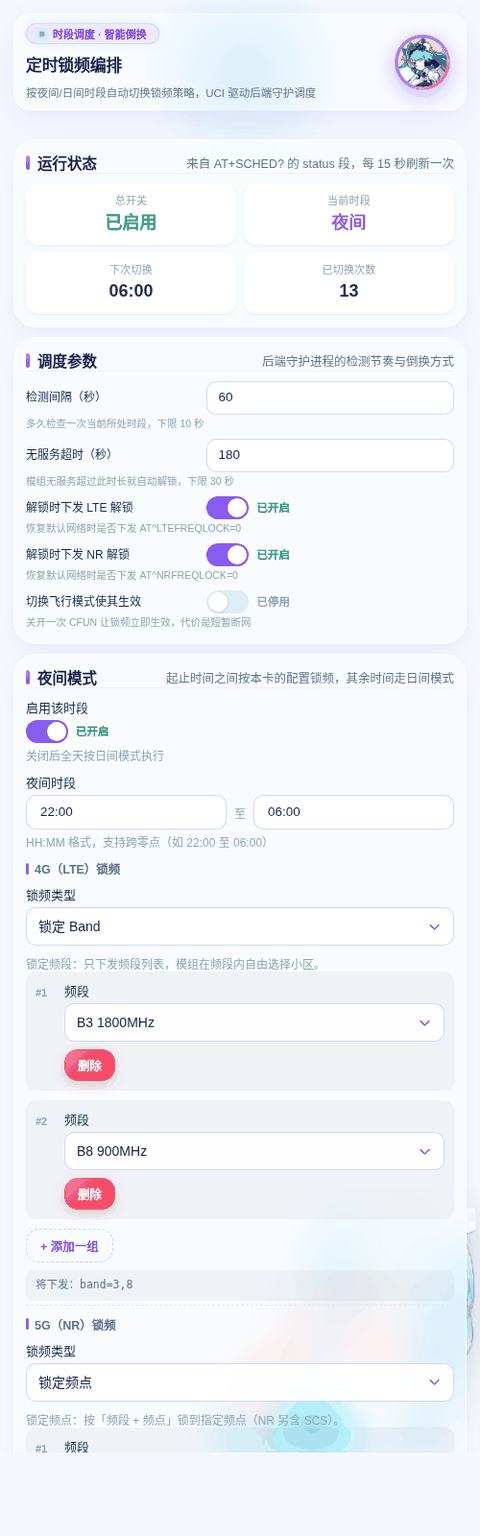
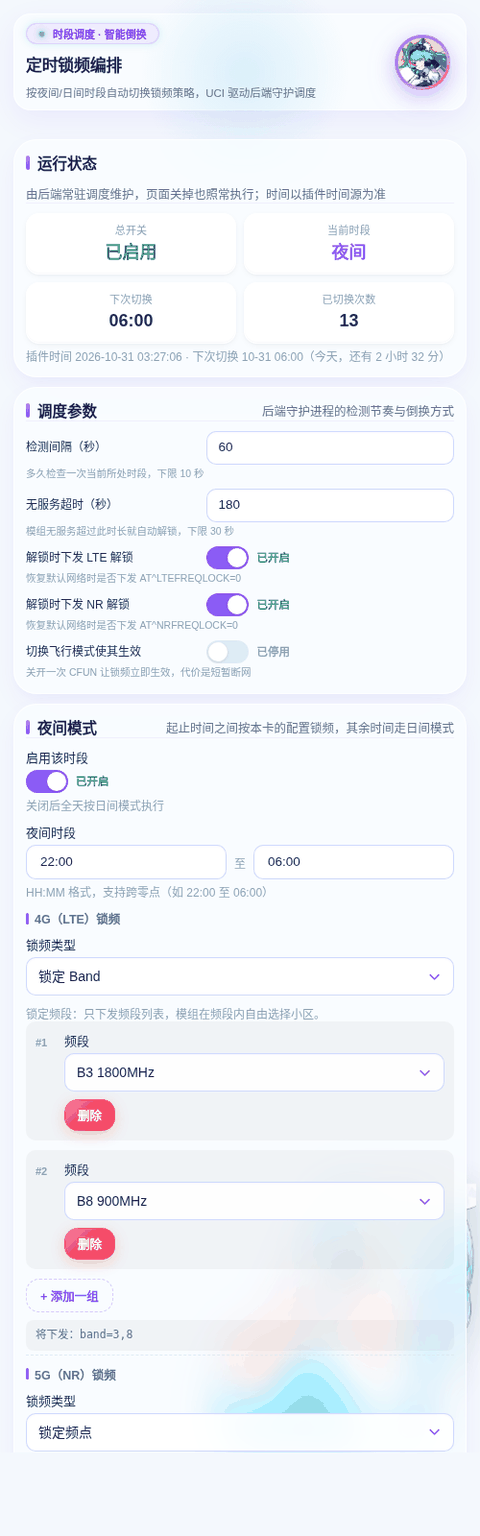
docs: v1.30.9 增补调度解耦 / 时间口径 / 弹窗可读性说明与截图

diff --git a/docs/release-notes/v1.30.9.md b/docs/release-notes/v1.30.9.md
@@ -122,3 +122,67 @@ function toNum(v) { /* '' 与非法值 → null，而不是 0 */ }
 ## 升级注意
 
 本次改了 `schedule.js` 与 `mt5700.css` 两个文件，且 CSS 版本号已递增。手动替换文件升级时，若此前访问过本插件页面，浏览器可能仍缓存着旧 `mt5700.css` —— 因为 `?v=` 已变更，正常刷新即可拿到新样式；若固件里做了静态资源强缓存，需强制刷新一次。
+
+---
+
+## 追加：定时任务彻底脱离前端
+
+### 问题
+
+调度逻辑本来就在 Rust 守护进程里（`Scheduler::run`），与浏览器无关，但有两处会让「关掉页面后不像在正常工作」：
+
+1. **唤醒节奏只按检测间隔**。`run()` 每 `check_interval` 秒醒一次，间隔设成 1800 秒时，22:00 的切换最多要等到 22:30 才下发。用户看到的现象是「时间到了没切」，而日志里其实什么错都没有。
+2. **模组重连后锁频丢失却不会补**。`connected_flag` 只有真/假两态，USB 重新枚举、模组自复位之后链路又变成 true，调度器认为「已下发」而跳过 —— 夜里锁着的 B8 在模组重启后就一直不锁。
+
+### 修复
+
+| 位置 | 改动 |
+|:--|:--|
+| `Scheduler::run` | 睡「检测间隔」与「距下一个切换点」的较小值，到点后 1 秒内判定；切换点之后继续按检测间隔做无服务巡检 |
+| `Scheduler::note_reconnect` | 每轮读取 `AtClient::connect_epoch()`（每次成功建链 +1），代次变化即把 `applied` 置回 false，本轮 tick 自动补下发 |
+| `REAPPLY_AFTER_RECONNECT_QUIET` | 刚下发过 120 秒内不补，避免链路抖动引发 `CFUN=0/1` + 锁频的反复切换 |
+| `schedconfig::seconds_to_next_switch` | 新增：返回距下一个时段端点的秒数，`next_switch_at` / `next_switch_time` 都由它推导，边界口径只有一处 |
+
+页面关掉、手机断网、没人登录，只要守护进程在跑，到点就切 —— 这条现在有单元测试盯着边界计算（跨零点、正好在端点那一分钟、端点非法）。
+
+## 追加：时间口径统一到插件自己的时间源
+
+插件内「现在几点」只有两个出口：`localtime`（时区）+ `nettime`（NTP 优先、失败回退设备时钟）。本次把调度链路上剩余的分支全部收敛过去：
+
+- `status()` 里 `next_switch` / `next_switch_time` / `server_time` 取**同一个** `nettime::now()`，不再各取一次（分别取会差几秒，用户拿它们互相对时间就会觉得对不上）；
+- 新增 `next_switch_time`（`YYYY-MM-DD HH:MM`）与 `next_switch_in`（秒）：只给 `HH:MM` 时，22:00 与「明天 06:00」在页面上长得一样；
+- 页面不再用浏览器时钟做任何推算，只回显后端给的时间与倒计时，并标注「插件时间」；
+- `next_switch` 的边界计算从「分钟粒度比较」改为「秒粒度差值」，`22:00:30` 不会再被当成「22:00 已过」。
+
+## 追加：Codex 评审 P2 —— ARFCN / PCI 取 0 被丢弃
+
+`Parse.toLockLists` 原来写的是 `String(i.arfcn || '')`。`0` 是合法值（LTE band 1 的最低 EARFCN 就是 0，PCI 0 也是真实小区），却被 `||` 判成空，于是用户明明填了 0，保存时却提示「频点必须为 0-4294967295 的整数」。
+
+改为只把 `null` / `undefined` 当空：
+
+```js
+var cellText = function (v) { return v == null ? '' : String(v).trim(); };
+var arfcns = valid.map(function (i) { return checkArfcn(label, cellText(i.arfcn)); }).join(',');
+var pcis   = valid.map(function (i) { return checkPci(kind, cellText(i.pci)); }).join(',');
+```
+
+`tests/parse-regression-test.js` 增加三条用例：ARFCN=0 保留、NR 的 ARFCN/SCS/PCI 同时为 0 保留、真的留空仍然报错。
+
+## 追加：全局弹窗文字可见性（不动版式）
+
+实机截图里弹窗标题够深、正文却是浅灰，叠在毛玻璃底上几乎看不清。「取消」键是浅靛蓝，对比也只有 2:1 左右。
+
+根因是正文颜色走主题的 secondary 文本变量，主题（Argon 一类）把它设成浅灰时，插件后面那句 `#475569` 的兜底因为特异性不够压不住。
+
+处理原则是**只改颜色，不动样式**：尺寸、内边距、圆角、边框、阴影、模糊、动画一律沿用原规则，新增段落只覆盖 `color` 与占位符颜色，覆盖四套弹窗结构（`.mt5700-modal` / `.at-modal` / `.cbi-modal` / `.modal`）。
+
+实测对比（同一份 DOM，改动前后用无头浏览器取 `getComputedStyle`）：
+
+| 元素 | 改动前 | 改动后 | 版式 |
+|:--|:--|:--|:--|
+| 正文 | `#7f7f8b`（被主题压成浅灰） | `#333c4b`（5.27:1） | 宽高 / 字号 / 行高 / 字重完全一致 |
+| 说明小字 | `#8ba3b6`（2.4:1） | `#3b4350`（4.73:1） | 同上 |
+| 取消键 | `#6366f1`（2.1:1） | `#3730a3`（4.71:1） | 同上 |
+| 标题 | `#1e1b4b`（8.3:1，本来就够） | `#141a24` | 同上 |
+
+暗色主题另给一组（正文 `#d7deea` / 11.7:1，取消键 `#c9bcff` / 9.2:1）。

diff --git a/CHANGELOG.md b/CHANGELOG.md
@@ -24,6 +24,16 @@
 - **chore(css) 新增页面专用样式**：`mt5700.css` 末尾追加 `.mt5700-switch-row` / `.mt5700-sched-*` / `.mt5700-lock-row` 一组仅服务本页的类，不改动任何既有选择器；`MT5700_CSS_VERSION` 2.43.0 → 2.44.0 触发浏览器缓存刷新
 - **test** `static-check` 4/4 与 12 个单测全部通过；另用真实模块 + 假后端搭了一套浏览器内预览（桌面 / 手机 / 明暗 / 三种场景），逐项核对空输入、开关联动、类型切换与溢出
 
+### fix(schedule) 定时任务彻底脱离前端：到点唤醒 + 重连补下发
+
+> 调度本来在守护进程里，但 `run()` 只按 `check_interval` 醒，间隔设大时切换点最多晚一整轮才生效；`connected_flag` 只有真/假两态，模组重连后锁频已被清空却仍被当成「已下发」。两处都会让「关了页面就不灵」的现象成立。
+
+- **fix(schedule) 到点唤醒**：睡「检测间隔」与「距下一个切换点」的较小值，切换点后 1 秒内判定；`seconds_to_next_switch` 用秒粒度差值算边界，`22:00:30` 不再被当成「22:00 已过」
+- **fix(schedule) 重连补下发**：`AtClient` 新增 `connect_epoch`（每次成功建链 +1），代次变化即把 `applied` 置回 false 让本轮 tick 重下发；刚下发 120 秒内不重复，避免链路抖动引发 `CFUN` 反复切换
+- **feat(schedule) 状态带插件时间**：`status` 新增 `next_switch_time`（`YYYY-MM-DD HH:MM`）、`next_switch_in`（秒）、`server_time`，三个字段取同一个 `nettime::now()`；页面只回显后端时间与倒计时，不用浏览器时钟推算，并标「今天 / 明天」
+- **fix(parse) ARFCN / PCI 取 0 不再被当成空值**（Codex PR #29 P2）：`i.arfcn || ''` 会把合法的 0 判成空，导致「填了 0 保存不了」；改为只认 `null` / `undefined`，并补 3 条回归用例
+- **style(modal) 全局弹窗文字可见性**：只覆盖颜色不改版式 —— 正文 `#333c4b`（5.27:1）、说明小字 `#3b4350`（4.73:1）、取消键 `#3730a3`（4.71:1），暗色另给一组；覆盖 `.mt5700-modal` / `.at-modal` / `.cbi-modal` / `.modal` 四套结构。无头浏览器实测改动前后宽高、内边距、圆角、字号、行高、字重完全一致
+
 ## v1.30.8（2026-10-30）
 
 ### refactor 冗余代码清理：死代码删除、生命周期收敛、重复逻辑合并
